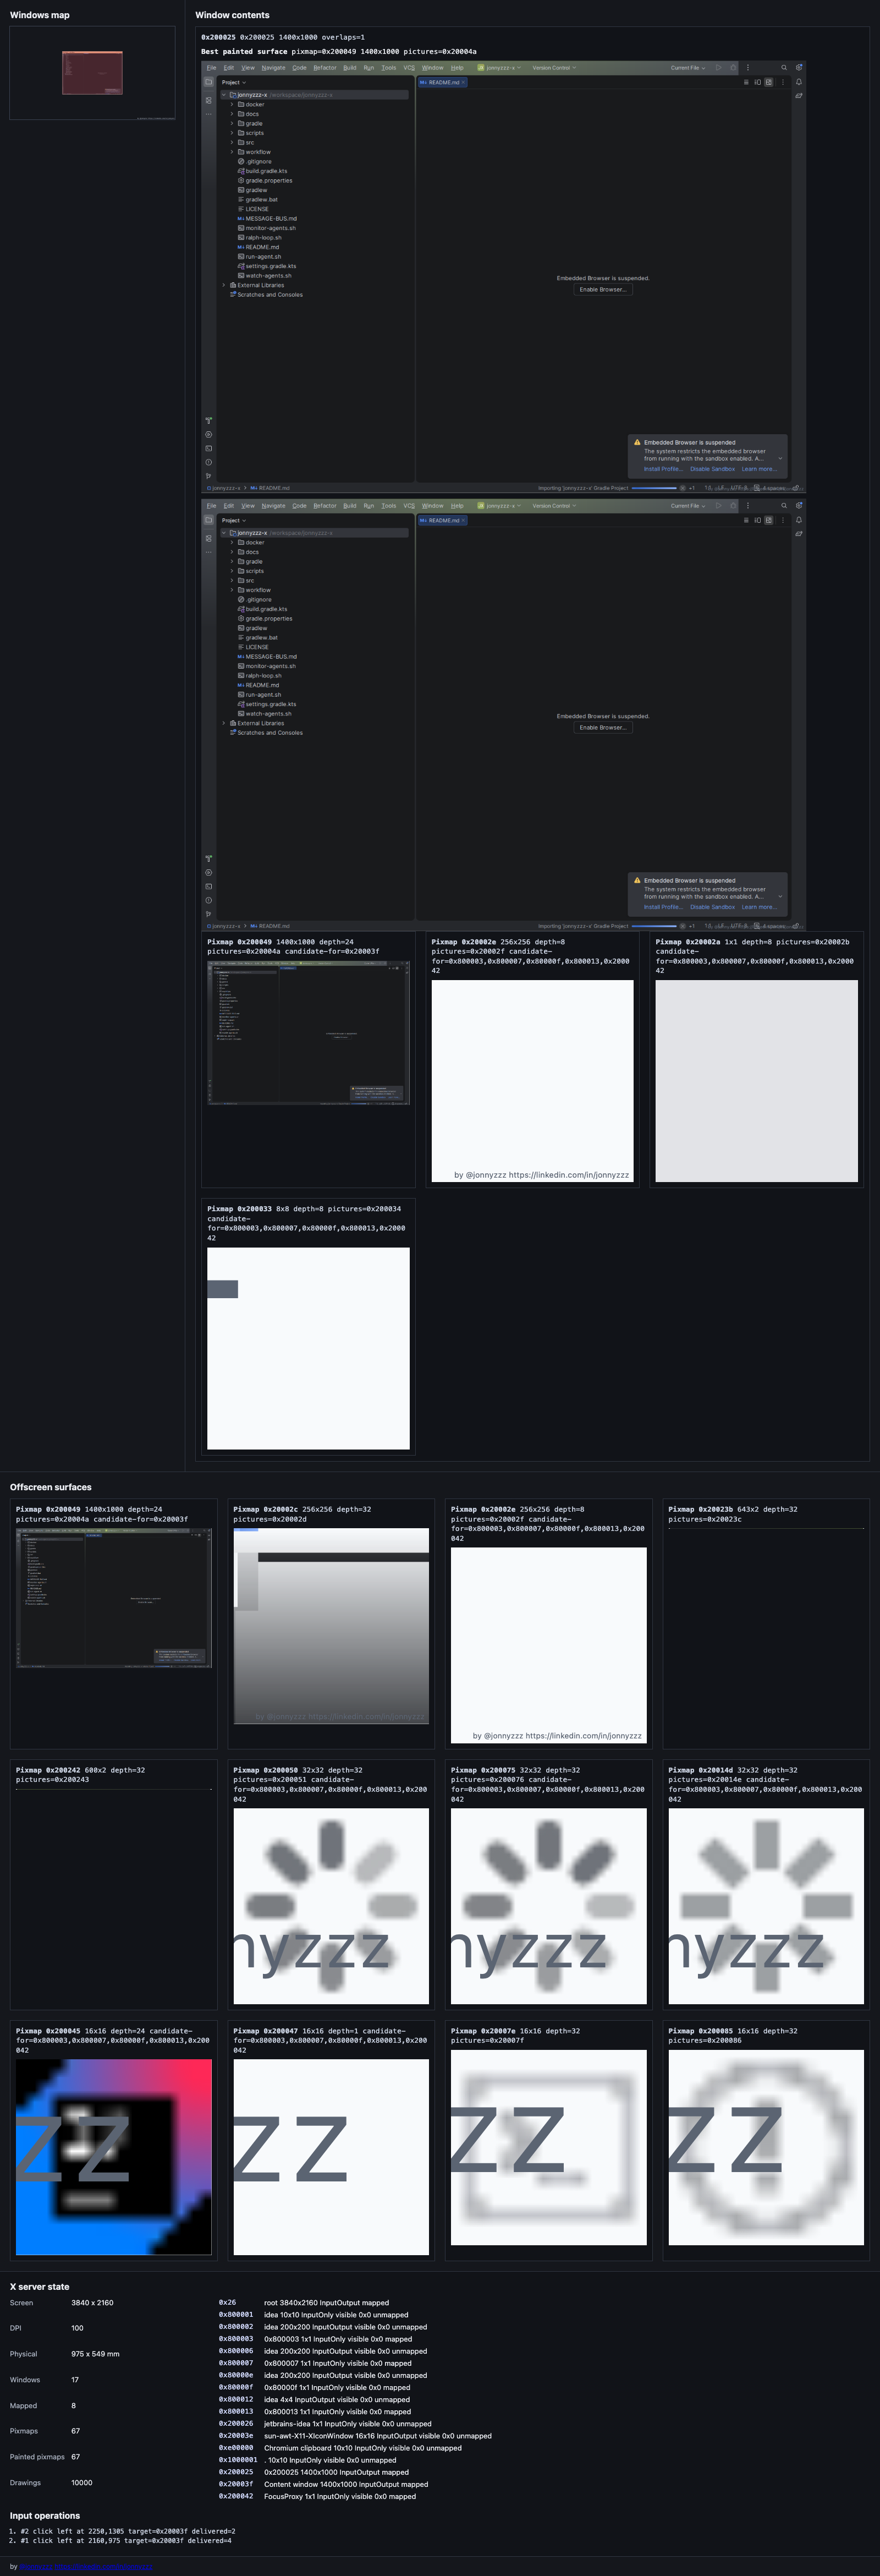
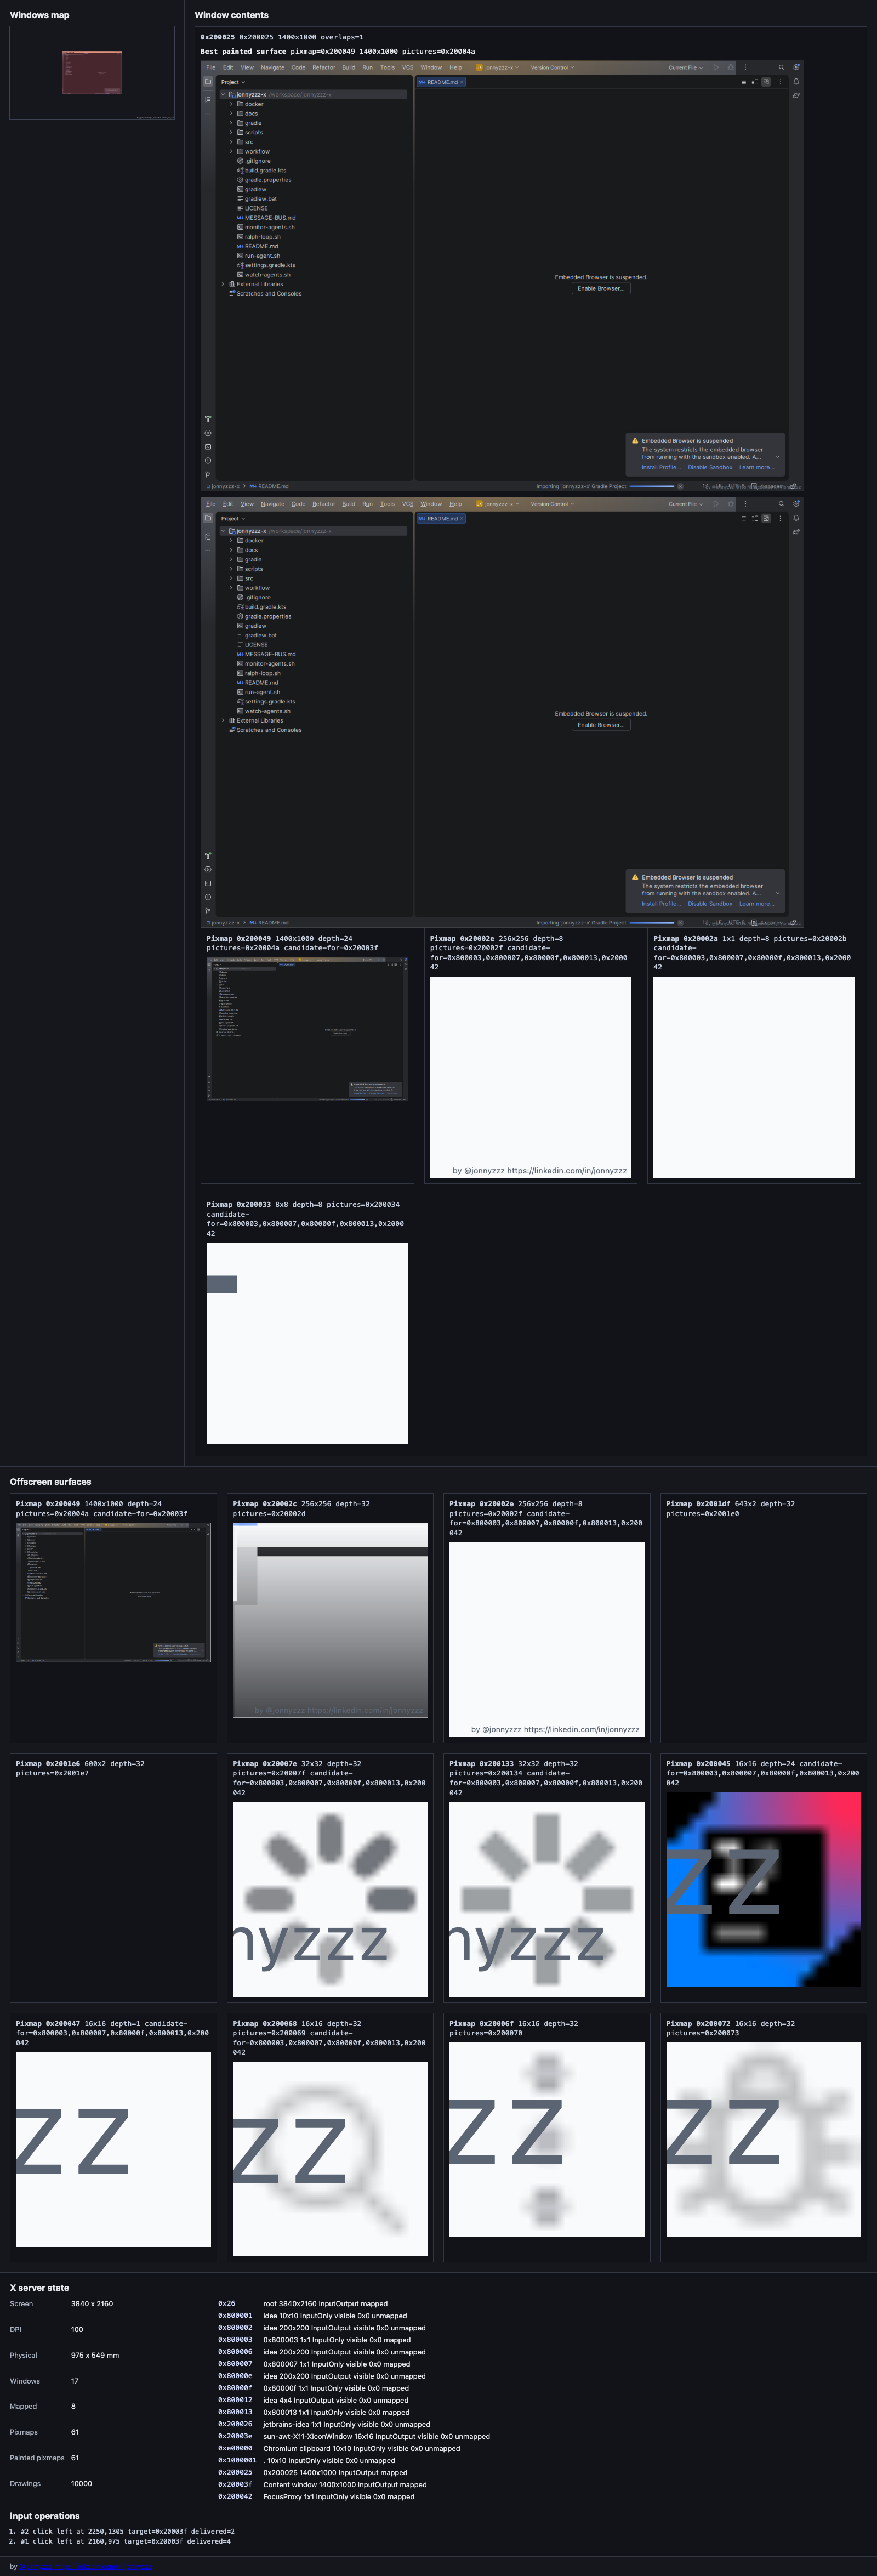
Align GLX visual metadata

diff --git a/src/test/kotlin/org/jonnyzzz/xserver/XGlxProtocolTest.kt b/src/test/kotlin/org/jonnyzzz/xserver/XGlxProtocolTest.kt
@@ -88,6 +88,23 @@ class XGlxProtocolTest {
             assertEquals(1, u32le(visuals, 8))
             assertEquals(XGlx.VisualConfigValues, u32le(visuals, 12))
             assertEquals(X11Ids.RootVisual, u32le(visuals, 32))
+            val visualConfig = intArrayPayload(visuals, offset = 32, count = XGlx.VisualConfigValues)
+            assertEquals(4, visualConfig[1])
+            assertEquals(1, visualConfig[2])
+            assertEquals(8, visualConfig[3])
+            assertEquals(8, visualConfig[4])
+            assertEquals(8, visualConfig[5])
+            assertEquals(8, visualConfig[6])
+            assertEquals(1, visualConfig[11])
+            assertEquals(32, visualConfig[13])
+            assertEquals(24, visualConfig[14])
+            assertEquals(8, visualConfig[15])
+            assertEquals(XGlx.None, visualConfig[19])
+            assertEquals(XGlx.None, visualConfig[21])
+            assertEquals(XGlx.DontCare, visualConfig[23])
+            assertEquals(XGlx.DontCare, visualConfig[25])
+            assertEquals(XGlx.DontCare, visualConfig[27])
+            assertEquals(XGlx.DontCare, visualConfig[29])
 
             val text = httpGet(socket, "/text.txt")
             assertTrue(text.contains("QueryServerString minor=19 screen=0 name=3 value=${XGlx.Extensions}"), text)
@@ -2216,6 +2233,9 @@ class XGlxProtocolTest {
         (0 until count).associate { index ->
             u32le(reply, offset + index * 8) to u32le(reply, offset + index * 8 + 4)
         }
+
+    private fun intArrayPayload(reply: ByteArray, offset: Int, count: Int): IntArray =
+        IntArray(count) { index -> u32le(reply, offset + index * 4) }
 
     private fun assertGlxError(input: InputStream, error: Int, badValue: Int, minorOpcode: Int, sequence: Int) {
         val reply = input.readExactly(32)

diff --git a/src/main/kotlin/org/jonnyzzz/xserver/XGlx.kt b/src/main/kotlin/org/jonnyzzz/xserver/XGlx.kt
@@ -317,16 +317,16 @@ internal object XGlx {
             8,
             8,
             8,
+            8,
             0,
             0,
             0,
             0,
+            1,
             0,
-            0,
-            0,
+            32,
             24,
-            24,
-            0,
+            8,
             0,
             0,
             0x20,
@@ -334,13 +334,13 @@ internal object XGlx {
             0x23,
             0x8000,
             0x25,
-            0,
+            DontCare,
             0x26,
-            0,
+            DontCare,
             0x27,
-            0,
+            DontCare,
             0x28,
-            0,
+            DontCare,
             0x24,
             0,
             100001,